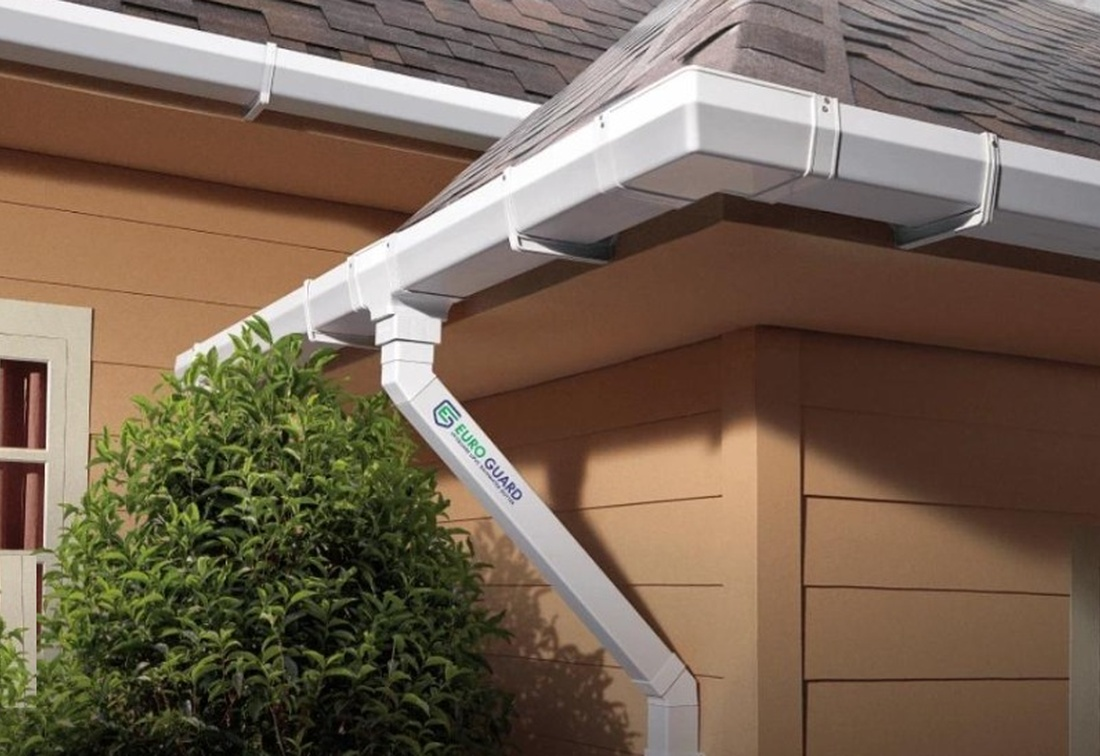
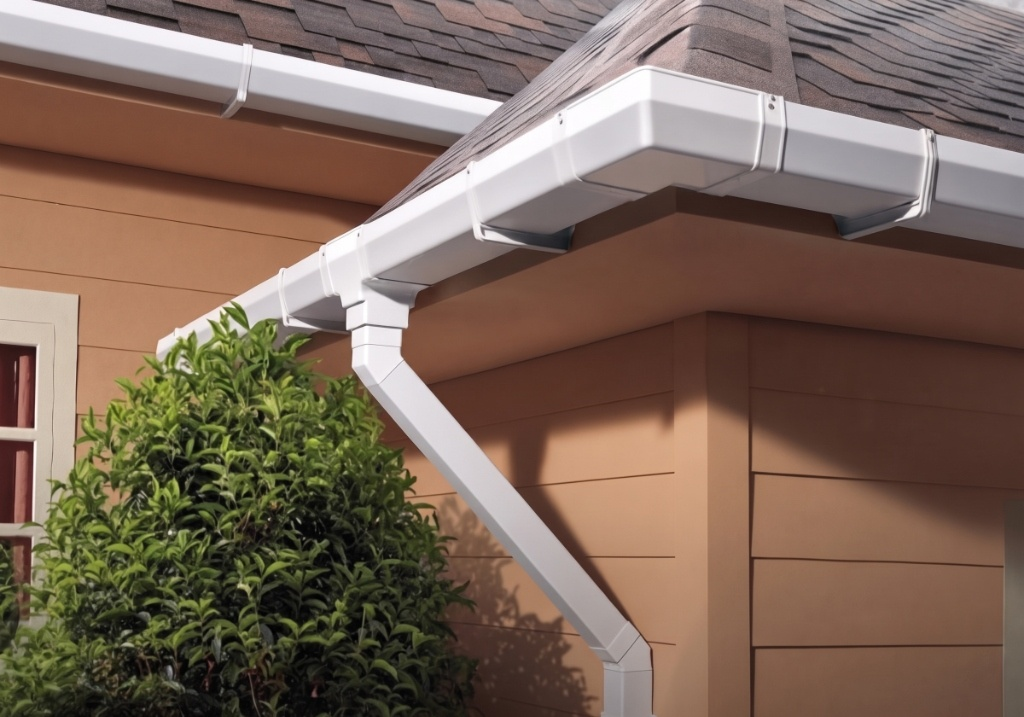
feat: add ManufacturedSheetsSection component and product images

diff --git a/components/ManufacturedSheetsSection.tsx b/components/ManufacturedSheetsSection.tsx
@@ -74,7 +74,7 @@ const products: ProductItem[] = [
     category: "ROOF DRAINAGE",
     title: "Rainwater Gutters & Downpipes",
     desc: "Engineered high-flow eaves gutters and vertical downspouts designed to channel heavy monsoon rainfall and protect building facades.",
-    image: "/images/product-card-gutter.jpg",
+    image: "/images/product-rainwater-gutter.jpg",
     imageFit: "cover",
     imageAlt: "Engineered Rainwater Eaves Gutter and Downpipe System",
     benefits: [
